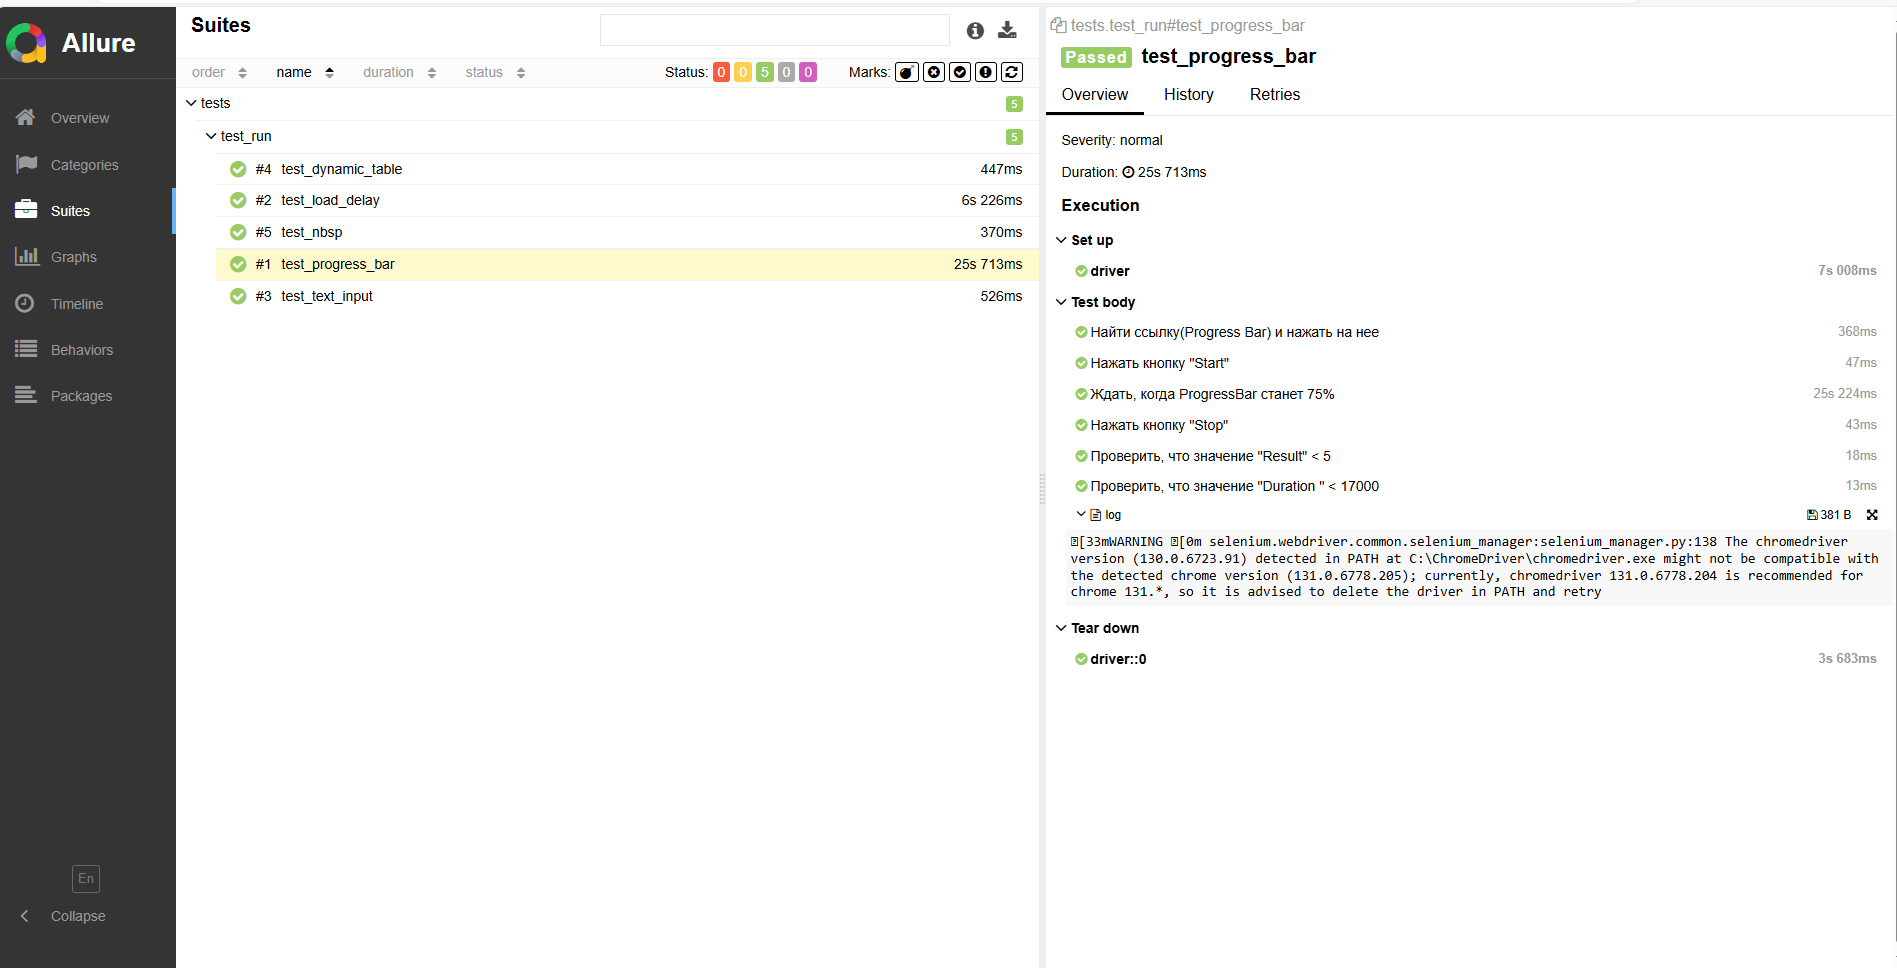
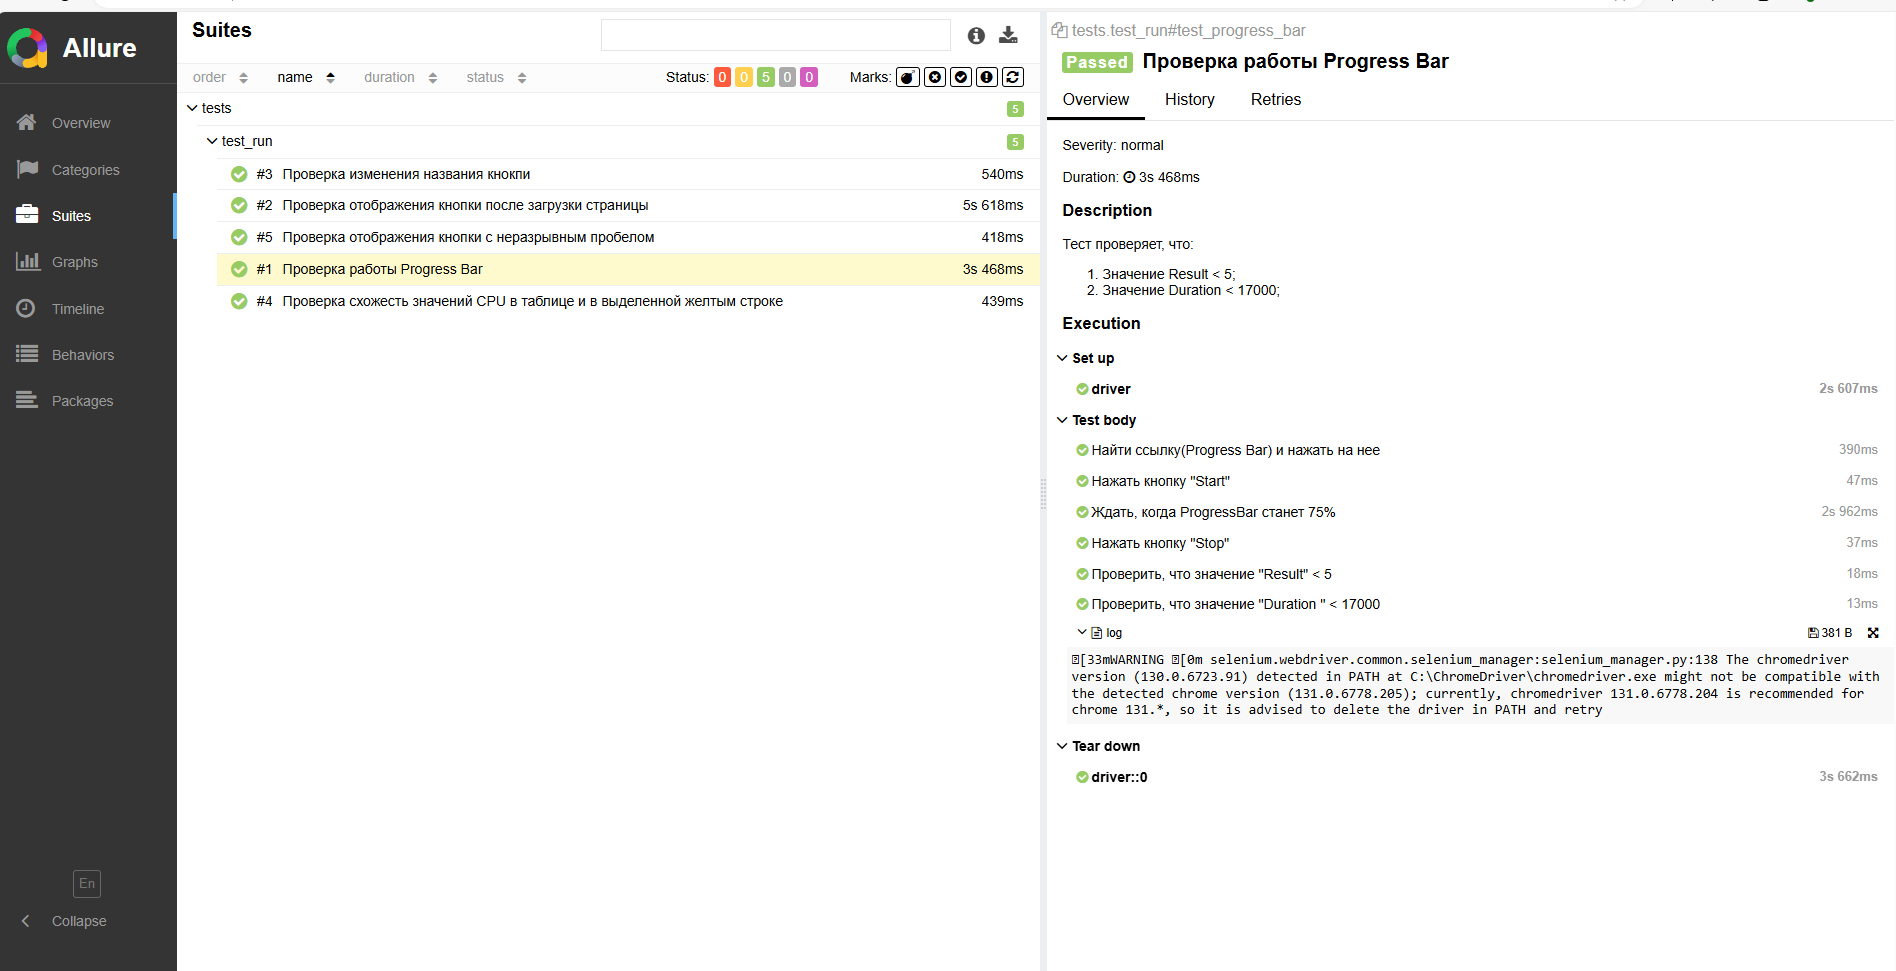
Внесены изменения

diff --git a/tests/test_run.py b/tests/test_run.py
@@ -7,6 +7,12 @@ from pages.DynamicTablePage import DynamicTablePage
 from pages.NBSPPage import NBSPPage
 
 
+@allure.title('Проверка работы Progress Bar')
+@allure.description('''
+Тест проверяет, что:
+1. Значение Result < 5;
+2. Значение Duration < 17000;
+''')
 def test_progress_bar(driver):
     main_page = MainPage(driver)
     main_page.click_link_progress_bar()
@@ -22,6 +28,12 @@ def test_progress_bar(driver):
             'Значение Duration больше 17000'
 
 
+@allure.title('Проверка отображения кнопки после загрузки страницы')
+@allure.description('''
+Шаги выполнения теста:
+1. Загрузка страницы с задержкой;
+2. Проверка, что кнопка отобразилась;
+''')
 def test_load_delay(driver):
     main_page = MainPage(driver)
     main_page.click_link_load_delay()
@@ -32,6 +44,13 @@ def test_load_delay(driver):
                True, 'Кнопка не отображается!'
 
 
+@allure.title('Проверка изменения названия кнокпи')
+@allure.description('''
+Шаги выполнения теста:
+1. Ввести текст в поле для ввода;
+2. Нажать кнопку;
+3. Удостовериться, что название до нажатия кнопки было одно, после - другое;
+''')
 def test_text_input(driver):
     main_page = MainPage(driver)
     main_page.click_link_text_input()
@@ -58,6 +77,14 @@ def test_text_input(driver):
             'Название кнопки изменилось'
 
 
+@allure.title(r'Проверка схожесть значений CPU в '
+              r'таблице и в выделенной желтым строке')
+@allure.description('''
+Шаги выполнения теста:
+1. Считать значение CPU для Chrome в таблице;
+2. Сравнить считанное значение со значением в
+выделенной желтым строке в точности до символа;
+''')
 def test_dynamic_table(driver):
     main_page = MainPage(driver)
     main_page.click_link_dynamic_table()
@@ -70,6 +97,11 @@ def test_dynamic_table(driver):
                'Значения не совпадают!'
 
 
+@allure.title(r'Проверка отображения кнопки с неразрывным пробелом')
+@allure.description('''
+Тест проверяет, что кнопка "My Button" с неразрывным
+пробелом отображается на странице
+''')
 def test_nbsp(driver):
     main_page = MainPage(driver)
     main_page.click_link_unbroken_space()

diff --git a/pages/BasePage.py b/pages/BasePage.py
@@ -1,7 +1,9 @@
+from typing import List
 from selenium.webdriver.common.by import By
 from selenium.webdriver.remote.webelement import WebElement
 from selenium.webdriver.support import expected_conditions
 from selenium.webdriver.support.wait import WebDriverWait
+
 
 
 class BasePage:
@@ -10,7 +12,7 @@ class BasePage:
         self.timeout = int(timeout)
         self.wait = WebDriverWait(driver, timeout)
 
-    def find_element(self, by: By or int, value: str) -> WebElement:
+    def find_element(self, by: By, value: str) -> WebElement:
         """
         Находит один элемент на странице
         :param by: Способ поиска локаторов
@@ -22,7 +24,7 @@ class BasePage:
                 (by, value)
             ), message=f'Элемент {by, value} не найден')
 
-    def find_elements(self, by: By or int, value: str) -> [WebElement]:
+    def find_elements(self, by: By, value: str) -> List[WebElement]:
         """
         Находит все элементы, соответствующие локатору, на странице
         :param by: Способ поиска локаторов
@@ -40,7 +42,11 @@ class BasePage:
         :param locator: Кортеж, определяющий локатор
         :return: True, если элемент присутствует и False, если нет
         """
-        return type(self.find_element(*locator)) == WebElement
+        try:
+            element = self.find_element(*locator)
+            return element.is_displayed()
+        except Exception:
+            return False
 
     def click_element(self, locator: tuple) -> None:
         """
